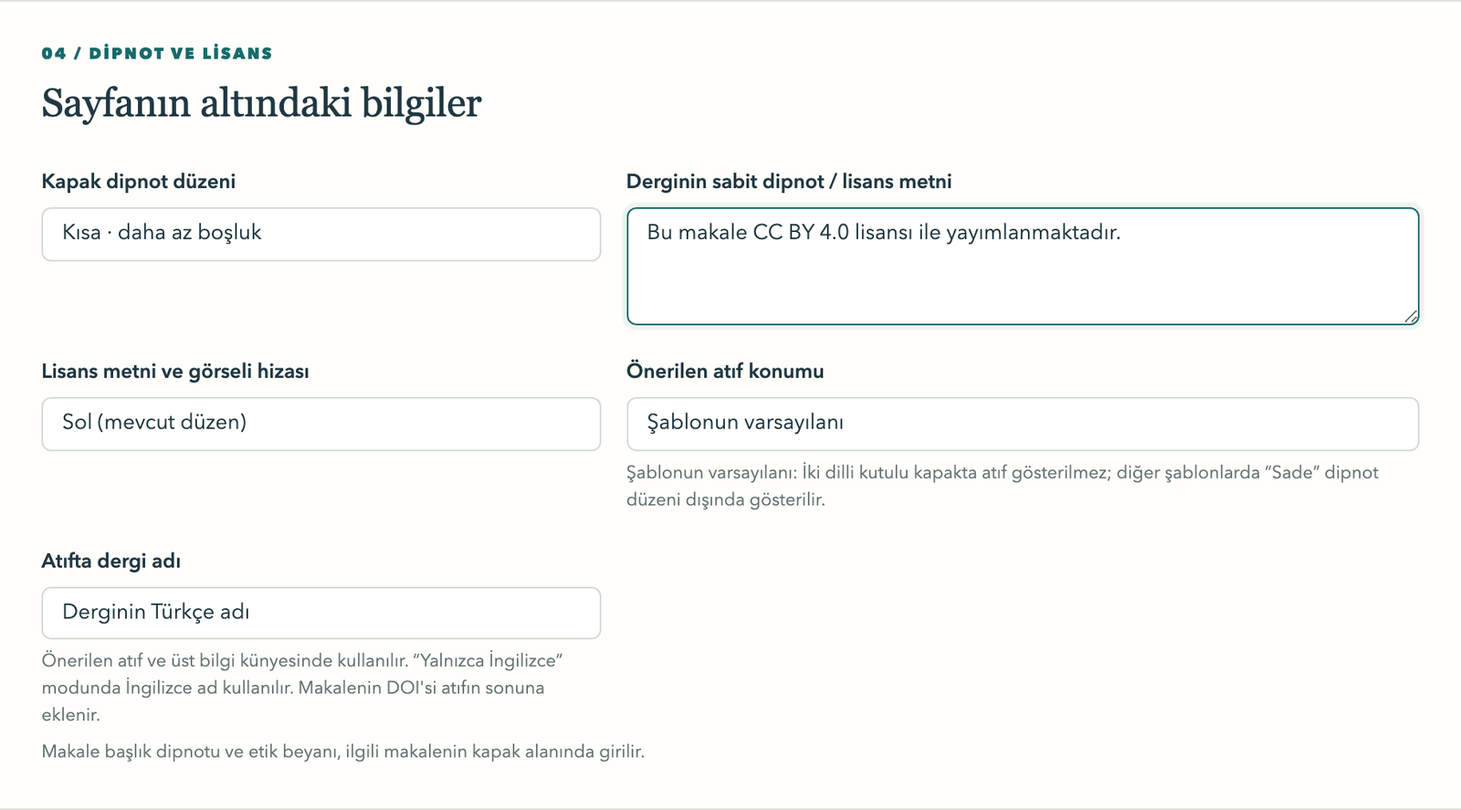
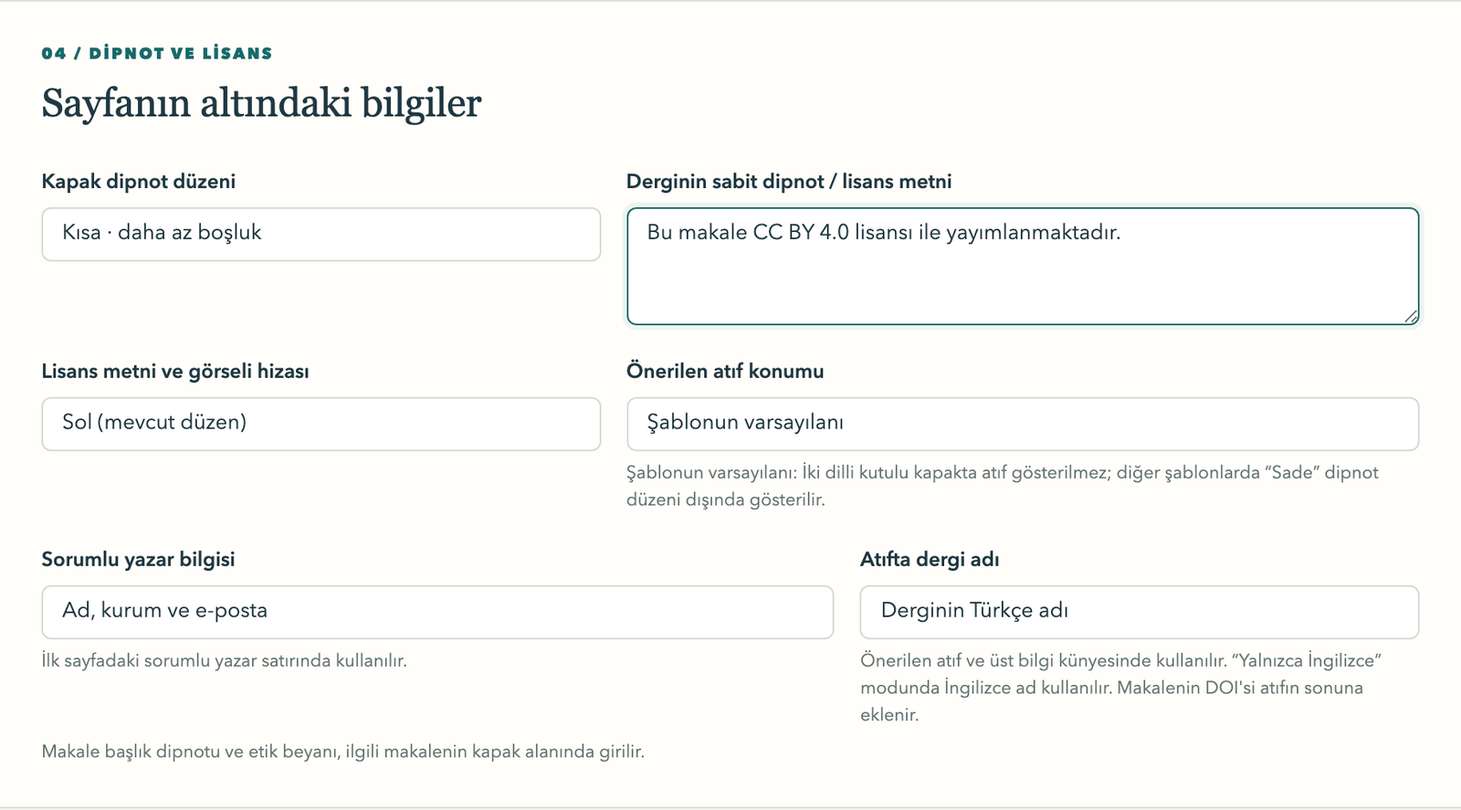
fix: import article DOI, tidy citation, add hyphenation and author options
- Fill the DOI field from a labelled DOI ("DOI: 10..." or a doi.org link)
  in the manuscript's front matter or first-page header/footer; body and
  reference DOIs are ignored and a typed DOI is kept. Warn in the output
  panel when the suggested citation has no DOI.
- Suggested citation follows APA 7 punctuation (comma after the journal)
  and drops the x/xxx placeholders of empty volume/issue fields.
- New "Satır sonunda kelime bölme" setting turns off LaTeX hyphenation.
- New "Sorumlu yazar bilgisi" setting limits the corresponding author
  line to name and e-mail.
- Bump to 2.4.3 with changelog, README, guide and screenshot updates.

diff --git a/templates/index.html b/templates/index.html
@@ -320,13 +320,13 @@ textarea { resize:vertical; }
    <div class="col-md-3"><label for="js-body-size">Gövde puntosu</label><select id="js-body-size" class="form-select"><option value="10">10 punto</option><option value="11">11 punto</option><option value="12">12 punto</option></select></div><div class="col-md-3"><label for="js-accent-color">Vurgu rengi</label><input id="js-accent-color" type="color" class="form-control form-control-color" value="#176B6A"></div>
    <div class="col-md-6"><label for="js-header-layout">Kapak üst yerleşimi</label><select id="js-header-layout" class="form-select"><option value="classic">Klasik · logo ve çift dil</option><option value="contemporary">Çağdaş · vurgu bandı</option><option value="centered">Ortalanmış · simetrik başlık</option><option value="minimal">Sade · yalın üst bilgi</option><option value="scholarly">Sosyal bilimler · ayrı İngilizce özet</option><option value="bilingual_panel">İki dilli kutulu kapak · çift özet paneli</option></select></div>
    <div class="col-md-6"><label for="js-first-page-fit">Varsayılan ilk sayfa yerleşimi</label><select id="js-first-page-fit" class="form-select"><option value="auto">Otomatik sığdır</option><option value="compact">Sıkı yerleşim</option><option value="dense">Çok sıkı yerleşim</option></select><small>Yeni makalelere uygulanır; her makalede ayrıca değiştirilebilir.</small></div>
-   <div class="col-md-4"><label for="js-logo-height">Logo yüksekliği · cm</label><input id="js-logo-height" type="number" min="0.5" max="3.5" step="0.1" class="form-control" value="2.3"></div><div class="col-md-4"><label for="js-corr-marker">Sorumlu yazar işareti</label><select id="js-corr-marker" class="form-select"><option value="*">* Yıldız</option><option value="†">† Hançer</option><option value="‡">‡ Çift hançer</option><option value="§">§ Paragraf</option><option value="¶">¶ Pilcrow</option><option value="#"># Kare</option><option value="★">★ Dolu yıldız</option><option value="✉">✉ Mektup</option></select></div><div class="col-md-4"><label for="js-doi-position">DOI konumu</label><select id="js-doi-position" class="form-select"><option value="bottom">İlk sayfanın altında</option><option value="top">Üst bilgi alanında</option></select></div>
+   <div class="col-md-4"><label for="js-logo-height">Logo yüksekliği · cm</label><input id="js-logo-height" type="number" min="0.5" max="3.5" step="0.1" class="form-control" value="2.3"></div><div class="col-md-4"><label for="js-corr-marker">Sorumlu yazar işareti</label><select id="js-corr-marker" class="form-select"><option value="*">* Yıldız</option><option value="†">† Hançer</option><option value="‡">‡ Çift hançer</option><option value="§">§ Paragraf</option><option value="¶">¶ Pilcrow</option><option value="#"># Kare</option><option value="★">★ Dolu yıldız</option><option value="✉">✉ Mektup</option></select></div><div class="col-md-4"><label for="js-doi-position">DOI konumu</label><select id="js-doi-position" class="form-select"><option value="bottom">İlk sayfanın altında</option><option value="top">Üst bilgi alanında</option></select></div><div class="col-md-6"><label for="js-hyphenation">Satır sonunda kelime bölme</label><select id="js-hyphenation" class="form-select" data-journal-setting="hyphenation" aria-describedby="hyphenation-help"><option value="on">Açık · sığmayan kelimeyi tireyle böl</option><option value="off">Kapalı · kelimeyi bölmeden alt satıra geçir</option></select><small id="hyphenation-help">PDF (LaTeX) çıktısında geçerlidir; Word kelimeleri kendiliğinden bölmez.</small></div>
    <div class="col-md-6"><label for="js-english-abstract-heading">İngilizce özet başlığı</label><input id="js-english-abstract-heading" data-journal-setting="english_abstract_heading" class="form-control" maxlength="80" placeholder="Abstract veya Extended Summary"></div>
    <div class="col-12" id="scholarly-layout-note" hidden><small>Sosyal bilimler düzeni: 2,5 cm yan kenar boşluğu, girintili paragraflar ve 1,5 satır aralığı. İki dilde özet varsa İngilizce başlık ve özet ayrı sayfadan başlar; uzun özet sonraki sayfalara devam eder. İngilizce özet alanına kendi genişletilmiş özetinizi girin. Sorumlu yazar ve tarih bilgileri kapak altında yer alır.</small></div>
    <div class="col-12" id="bilingual-panel-layout-note" hidden><small>İki dilli kutulu kapak: Logo ve dergi adı üst künyede, Türkçe ve İngilizce özetler gri panellerde gösterilir. Tek/çift sayfa üst bilgileri ve alttaki sayfa numarası düzenlenebilir. Dergi adı, URL, ISSN ve logo hesabınızın mevcut alanlarından alınır.</small></div>
    <div class="col-12"><label class="check-label"><input type="checkbox" id="js-english-only" class="form-check-input"> Yalnızca İngilizce kapak ve etiketler kullan</label></div>
   </div></div>
-  <div class="settings-section"><span class="eyebrow">04 / DİPNOT VE LİSANS</span><h2>Sayfanın altındaki bilgiler</h2><div class="row g-3"><div class="col-md-5"><label for="js-footer-layout">Kapak dipnot düzeni</label><select id="js-footer-layout" class="form-select"><option value="full">Ayrıntılı · tüm bilgiler</option><option value="compact">Kısa · daha az boşluk</option><option value="minimal">Sade · temel bilgiler</option></select></div><div class="col-md-7"><label for="js-footer-text">Derginin sabit dipnot / lisans metni</label><textarea id="js-footer-text" class="form-control" rows="3" maxlength="2000" placeholder="Derginizin yayın ve lisans bilgisi…"></textarea></div><div class="col-md-5"><label for="js-footer-text-align">Lisans metni ve görseli hizası</label><select id="js-footer-text-align" class="form-select" data-journal-setting="footer_text_align"><option value="left">Sol (mevcut düzen)</option><option value="center">Orta</option><option value="right">Sağ</option></select></div><div class="col-md-7"><label for="js-citation-position">Önerilen atıf konumu</label><select id="js-citation-position" class="form-select" data-journal-setting="citation_position" aria-describedby="citation-position-help"><option value="auto">Şablonun varsayılanı</option><option value="below_authors">Yazar bilgilerinin altında, özetlerden önce</option><option value="footer">İlk sayfanın altındaki dipnotta</option><option value="none">Gösterme</option></select><small id="citation-position-help">Şablonun varsayılanı: İki dilli kutulu kapakta atıf gösterilmez; diğer şablonlarda “Sade” dipnot düzeni dışında gösterilir.</small></div><div class="col-md-5"><label for="js-citation-journal-name">Atıfta dergi adı</label><select id="js-citation-journal-name" class="form-select" data-journal-setting="citation_journal_name" aria-describedby="citation-journal-help"><option value="primary">Derginin Türkçe adı</option><option value="english">Derginin İngilizce adı</option></select><small id="citation-journal-help">Önerilen atıf ve üst bilgi künyesinde kullanılır. “Yalnızca İngilizce” modunda İngilizce ad kullanılır. Makalenin DOI'si atıfın sonuna eklenir.</small></div></div><small>Makale başlık dipnotu ve etik beyanı, ilgili makalenin kapak alanında girilir.</small></div>
+  <div class="settings-section"><span class="eyebrow">04 / DİPNOT VE LİSANS</span><h2>Sayfanın altındaki bilgiler</h2><div class="row g-3"><div class="col-md-5"><label for="js-footer-layout">Kapak dipnot düzeni</label><select id="js-footer-layout" class="form-select"><option value="full">Ayrıntılı · tüm bilgiler</option><option value="compact">Kısa · daha az boşluk</option><option value="minimal">Sade · temel bilgiler</option></select></div><div class="col-md-7"><label for="js-footer-text">Derginin sabit dipnot / lisans metni</label><textarea id="js-footer-text" class="form-control" rows="3" maxlength="2000" placeholder="Derginizin yayın ve lisans bilgisi…"></textarea></div><div class="col-md-5"><label for="js-footer-text-align">Lisans metni ve görseli hizası</label><select id="js-footer-text-align" class="form-select" data-journal-setting="footer_text_align"><option value="left">Sol (mevcut düzen)</option><option value="center">Orta</option><option value="right">Sağ</option></select></div><div class="col-md-7"><label for="js-citation-position">Önerilen atıf konumu</label><select id="js-citation-position" class="form-select" data-journal-setting="citation_position" aria-describedby="citation-position-help"><option value="auto">Şablonun varsayılanı</option><option value="below_authors">Yazar bilgilerinin altında, özetlerden önce</option><option value="footer">İlk sayfanın altındaki dipnotta</option><option value="none">Gösterme</option></select><small id="citation-position-help">Şablonun varsayılanı: İki dilli kutulu kapakta atıf gösterilmez; diğer şablonlarda “Sade” dipnot düzeni dışında gösterilir.</small></div><div class="col-md-7"><label for="js-corresponding-detail">Sorumlu yazar bilgisi</label><select id="js-corresponding-detail" class="form-select" data-journal-setting="corresponding_detail"><option value="full">Ad, kurum ve e-posta</option><option value="name_email">Yalnızca ad ve e-posta</option></select><small>İlk sayfadaki sorumlu yazar satırında kullanılır.</small></div><div class="col-md-5"><label for="js-citation-journal-name">Atıfta dergi adı</label><select id="js-citation-journal-name" class="form-select" data-journal-setting="citation_journal_name" aria-describedby="citation-journal-help"><option value="primary">Derginin Türkçe adı</option><option value="english">Derginin İngilizce adı</option></select><small id="citation-journal-help">Önerilen atıf ve üst bilgi künyesinde kullanılır. “Yalnızca İngilizce” modunda İngilizce ad kullanılır. Makalenin DOI'si atıfın sonuna eklenir.</small></div></div><small>Makale başlık dipnotu ve etik beyanı, ilgili makalenin kapak alanında girilir.</small></div>
 
 <div class="settings-section running-settings"><span class="eyebrow">05 / SAYFA ÜST VE ALT BİLGİLERİ</span><h2>Her sayfaya ait ayrıntılar</h2>
 <p>Bu ayarlar Word ve LaTeX çıktılarında kullanılır. Tek/çift seçimi, makalenin başlangıç sayfa numarasına göre uygulanır. Kapaktaki yazar, etik beyan ve lisans bilgileri ayrıca korunur.</p>
@@ -699,6 +699,8 @@ async function applyDocxImport(data, importKey, filename, notify = true) {
   document.getElementById('c-tr-title').value = cover.tr_title || '';
   document.getElementById('c-en-title').value = cover.en_title || '';
   if (cover.article_type) document.getElementById('c-article-type').value = cover.article_type;
+  // A DOI typed by the editor wins over one found in the manuscript.
+  if (cover.doi && !document.getElementById('c-doi').value.trim()) document.getElementById('c-doi').value = cover.doi;
 
   const abstract = data.abstract || {};
   document.getElementById('a-tr-abs').value = abstract.tr_abs || '';
@@ -2043,7 +2045,8 @@ async function doGenerate(kind = 'zip') {
     document.getElementById('result-title').textContent = word ? 'Tamamlandı — Word belgesi hazır' : 'Tamamlandı — ZIP hazır';
     document.getElementById('docx-download-status').textContent = '';
     const report = res.citations;
-    document.getElementById('citation-result').textContent = report?.enabled ? `${report.linked_in_body} metin içi atıf kaynakçaya bağlandı. ${report.ambiguous_references} belirsiz, ${report.unrecognized_references} tanınmayan kaynak kaydı. Bağlantısız atıfları son kontrolde gözden geçirin.` : 'Atıf bağlantıları kapalı.';
+    const doiNote = document.getElementById('c-doi').value.trim() ? '' : ' Makalenin DOI\'si girilmediği için önerilen atıfta DOI yer almıyor; Kapak Sayfası Bilgileri → DOI alanını doldurun.';
+    document.getElementById('citation-result').textContent = (report?.enabled ? `${report.linked_in_body} metin içi atıf kaynakçaya bağlandı. ${report.ambiguous_references} belirsiz, ${report.unrecognized_references} tanınmayan kaynak kaydı. Bağlantısız atıfları son kontrolde gözden geçirin.` : 'Atıf bağlantıları kapalı.') + doiNote;
     document.getElementById('zip-download-status').textContent = '';
     document.getElementById('result-panel').style.display = 'block';
     document.getElementById('result-panel').scrollIntoView({ behavior:'smooth' });

diff --git a/static/workspace.js b/static/workspace.js
@@ -71,7 +71,8 @@ window.journalWorkspace = (() => {
     const values = {...window.runningDefaults, font_family:next.font_family || next.font || 'Palatino Linotype',body_size:10,accent_color:'#176B6A',
       logo_height_cm:2.3,corresponding_marker:'*',doi_position:'bottom',header_layout:next.template_id || 'classic',
       footer_layout:'full',first_page_fit:'auto',english_abstract_heading:'Abstract',
-      footer_text_align:'left',citation_position:'auto',citation_journal_name:'primary',...next};
+      footer_text_align:'left',citation_position:'auto',citation_journal_name:'primary',
+      hyphenation:'on',corresponding_detail:'full',...next};
     const fontAliases = {texgyrepagella:'Palatino Linotype',texgyretermes:'Times New Roman',tgschola:'Century',texgyrebonum:'Century',latinmodern:'Latin Modern',carlito:'Calibri',texgyreheros:'Sans Serif'};
     values.font_family = fontAliases[values.font_family] || values.font_family;
     for (const [key,id] of Object.entries(fields)) byId(id).value = values[key] ?? '';

diff --git a/formatter.py b/formatter.py
@@ -1045,6 +1045,33 @@ def _route_titles_by_language(first: str, second: str) -> tuple[str, str]:
     return first, second
 
 
+_DOI_RE = re.compile(r'(?:\bdoi\s*[:：]?\s*|https?://(?:dx\.)?doi\.org/)(10\.\d{4,9}/[^\s"<>]+)', re.IGNORECASE)
+
+
+def _front_matter_doi(document: Document, blocks: list[dict], paragraph_indices: list[int]) -> str:
+    """The article's own DOI from its front matter or page header/footer.
+
+    Only labelled DOIs ("DOI: 10…" or a doi.org link) before the first body
+    heading count, so DOIs of cited works in the text or references are ignored.
+    """
+    texts = []
+    for index in paragraph_indices:
+        text = blocks[index]['text']
+        key = text.lower().strip().rstrip(':').strip()
+        if _is_heading(blocks[index]['paragraph']) or key in SECTION_MAP or _numbered_section_title(text):
+            break
+        texts.append(text)
+    if document.sections:
+        section = document.sections[0]
+        for part in (section.first_page_header, section.header, section.first_page_footer, section.footer):
+            texts.extend(_para_text(paragraph) for paragraph in part.paragraphs)
+    for text in texts:
+        match = _DOI_RE.search(text)
+        if match:
+            return match.group(1).rstrip('.,;:)]')
+    return ''
+
+
 def extract_form_data_from_docx(file_bytes: bytes) -> tuple[dict, list[dict]]:
     """Extract a reviewable form payload and body images from a DOCX file."""
     document = Document(io.BytesIO(file_bytes))
@@ -1368,7 +1395,12 @@ def extract_form_data_from_docx(file_bytes: bytes) -> tuple[dict, list[dict]]:
         result['warnings'].append('Word çizimleri, grafikler veya metin kutuları bulundu. Görsel olmayan Word şekilleri otomatik resme dönüştürülemez; şekilleri Word’den PNG/JPG olarak kaydedip şekil alanından ekleyin ve konumlarını kontrol edin.')
     if not result['sections']:
         result['warnings'].append('Word dosyasında güvenilir biçimde belirlenebilen makale bölümü bulunamadı.')
-    result['warnings'].append('Yazar, tarih, DOI ve sayı bilgileri Word dosyasından güvenilir biçimde çıkarılamadığı için mevcut alanlar korundu.')
+    doi = _front_matter_doi(document, blocks, paragraph_indices)
+    if doi:
+        result['cover']['doi'] = doi
+        result['warnings'].append(f'Makalenin DOI\'si Word dosyasından alındı ({doi}); Kapak Sayfası Bilgileri → DOI alanında kontrol edin.')
+    result['warnings'].append('Yazar, tarih ve sayı bilgileri' + ('' if doi else ' ile DOI')
+                              + ' Word dosyasından güvenilir biçimde çıkarılamadığı için mevcut alanlar korundu.')
     result['stats'] = {
         'sections': len(result['sections']),
         'tables': table_number,
@@ -1473,13 +1505,13 @@ def _format_affiliations(authors: list, english_only: bool = False) -> str:
     return (r'\\' + '\n  ').join(lines)
 
 
-def _format_corresponding(authors: list, english_only: bool = False) -> str:
+def _format_corresponding(authors: list, english_only: bool = False, include_affiliation: bool = True) -> str:
     email_label = 'E-mail: ' if english_only else 'E-posta: '
     for a in authors:
         if a.get('corresponding'):
             name  = escape(a.get('name', ''))
             email = a.get('email', '')
-            aff   = escape(a.get('affiliation', ''))
+            aff   = escape(a.get('affiliation', '')) if include_affiliation else ''
             ep    = r'. ' + email_label + r'\href{' + _url_target('mailto:' + email) + r'}{' + escape(email) + r'}' if email else ''
             return name + (', ' + aff if aff else '') + ep
     if authors:
@@ -2592,19 +2624,20 @@ def generate_latex_from_form(data: dict, figure_file_bytes: dict,
     # ── Author blocks ──
     author_block = _format_author_block(authors, corr_marker) if authors else ''
     affiliations = _format_affiliations(authors, english_only) if authors else ''
-    corresponding = _format_corresponding(authors, english_only) if authors else ''
+    corresponding = _format_corresponding(authors, english_only, js['corresponding_detail'] == 'full') if authors else ''
 
     # ── APA citation ──
     citation_title = en_title if english_only else tr_title
     # The journal's own (Turkish) title unless the journal chose its English title.
     citation_journal = ((jname_en or jname_tr) if english_only or js['citation_journal_name'] == 'english'
                         else (jname_tr or jname_en))
+    # APA 7: Journal, Volume(Issue), pages. https://doi.org/... (placeholders are left out)
+    volume_raw, issue_raw, start_raw = (page_value(cov.get(key)) for key in ('volume', 'issue', 'start_page'))
+    issue_part = (r'\textit{' + escape(volume_raw) + '}' if volume_raw else '') + ('(' + escape(issue_raw) + ')' if issue_raw else '')
+    source = ', '.join(part for part in (r'\textit{' + escape(citation_journal) + '}', issue_part,
+                                         escape(start_raw) + '--' + end_page if start_raw else '') if part)
     apa_citation = (
-        author_short + r'\ (' + year + r'). ' + citation_title +
-        r'. \textit{' + escape(citation_journal) + r'}, ' +
-        r'\textit{' + volume + r'}(' + issue + r'), ' +
-        start_page + r'--' + end_page + r'.'
-        # APA 7 ends a journal article reference with its DOI.
+        author_short + r'\ (' + year + r'). ' + citation_title + '. ' + source + '.'
         + (r' \href{https://doi.org/\JGTTRDOI}{https://doi.org/\JGTTRDOI}' if doi else '')
     )
 
@@ -2815,8 +2848,9 @@ def generate_latex_from_form(data: dict, figure_file_bytes: dict,
 % ── Satır kırma / Line breaking ──
 % Uzun kelimeler ve URL'lerin sayfa kenarına taşmasını önler
 \setlength{\emergencystretch}{3em}
-\tolerance=800
-\hyphenpenalty=50
+\tolerance=""" + ('800' if js['hyphenation'] == 'on' else '2000') + r"""
+% Kelime bölme / Hyphenation: """ + js['hyphenation'] + r""" (an explicit hyphen in a word may still end a line)
+\hyphenpenalty=""" + ('50' if js['hyphenation'] == 'on' else '10000') + r"""
 \exhyphenpenalty=50
 
 % ── Section headings ──

diff --git a/tests/test_editor_feedback_243.py b/tests/test_editor_feedback_243.py
@@ -1,0 +1,97 @@
+"""Editor feedback for 2.4.3: imported DOI, citation punctuation, hyphenation, corresponding author."""
+import io
+import re
+import unittest
+
+from docx import Document
+
+from docx_export import generate_docx_from_form
+from formatter import extract_form_data_from_docx, generate_latex_from_form
+from journal_templates import TEMPLATES, normalize_settings
+from page_furniture import citation_text
+from test_formatter_templates import sample_article
+
+SCHOLARLY = next(item['settings'] for item in TEMPLATES if item['id'] == 'scholarly')
+
+
+def imported(*front, references=(), header=''):
+    document = Document()
+    if header:
+        document.sections[0].header.paragraphs[0].text = header
+    document.add_paragraph('Kırsal Turizmde Dijital Tanıtım', style='Title')
+    for text in front:
+        document.add_paragraph(text)
+    document.add_paragraph('Öz')
+    document.add_paragraph('Bu çalışma kısa bir örnek özet içermektedir ve test içindir.')
+    document.add_heading('Giriş', level=1)
+    document.add_paragraph('Giriş metni (Yılmaz, 2020) burada yer alır; bkz. doi: 10.9999/body.citation.')
+    document.add_heading('Kaynakça', level=1)
+    for reference in references:
+        document.add_paragraph(reference)
+    stream = io.BytesIO(); document.save(stream)
+    return extract_form_data_from_docx(stream.getvalue())[0]
+
+
+class ImportedDoiTests(unittest.TestCase):
+    def test_labelled_front_matter_doi_is_imported(self):
+        data = imported('Araştırma Makalesi', 'DOI: 10.1234/osad.2026.012')
+        self.assertEqual(data['cover']['doi'], '10.1234/osad.2026.012')
+        self.assertTrue(any('DOI' in warning and '10.1234/osad.2026.012' in warning for warning in data['warnings']))
+
+    def test_doi_link_in_page_header_is_imported(self):
+        data = imported(header='Örnek Dergi · https://doi.org/10.5555/ornek.45.')
+        self.assertEqual(data['cover']['doi'], '10.5555/ornek.45')
+
+    def test_body_and_reference_dois_are_ignored(self):
+        data = imported(references=['Yılmaz, A. (2020). Başlık. Dergi, 1(1), 1–2. https://doi.org/10.1111/ref.1'])
+        self.assertNotIn('doi', data['cover'])
+        self.assertTrue(any('ile DOI' in warning for warning in data['warnings']))
+
+
+class CitationPunctuationTests(unittest.TestCase):
+    def test_apa_comma_after_journal_and_no_placeholders(self):
+        settings = normalize_settings({'journal_name_tr': 'Örnek Dergi'})
+        data = sample_article()
+        self.assertIn('Örnek Dergi, 4(2), 89–104. https://doi.org/', citation_text(data, settings))
+        data['cover'].update(volume='x', issue='x')
+        text = citation_text(data, settings)
+        self.assertIn('Örnek Dergi, 89–104.', text)
+        self.assertNotIn('(x)', text)
+        tex = generate_latex_from_form(data, {}, {'journal_name_tr': 'Örnek Dergi'})
+        citation = tex[tex.index(r'\newcommand{\JGTTRapacitation}'):].split('\n', 1)[0]
+        self.assertIn(r'\textit{Örnek Dergi}, 89--104.', citation)
+        self.assertNotIn('(x)', citation)
+
+
+class HyphenationTests(unittest.TestCase):
+    def test_hyphenation_stays_on_by_default_and_can_be_turned_off(self):
+        self.assertIn('\\hyphenpenalty=50\n', generate_latex_from_form(sample_article(), {}, {}))
+        tex = generate_latex_from_form(sample_article(), {}, {'hyphenation': 'off'})
+        self.assertIn('\\hyphenpenalty=10000\n', tex)
+        self.assertIn('\\tolerance=2000\n', tex)
+        with self.assertRaises(ValueError):
+            normalize_settings({'hyphenation': 'auto'})
+
+
+class CorrespondingAuthorTests(unittest.TestCase):
+    def info(self, settings):
+        tex = generate_latex_from_form(sample_article(), {}, settings)
+        return re.search(r'\\newcommand\{\\JGTTRcorrespondinginfo\}\{(.*)\}\n', tex).group(1)
+
+    def test_full_details_by_default(self):
+        self.assertIn('Örnek Üniversitesi', self.info({}))
+
+    def test_name_and_email_only(self):
+        info = self.info({'corresponding_detail': 'name_email'})
+        self.assertTrue(info.startswith('Deniz Örnek. E-posta:'))
+        self.assertIn('deniz@example.org', info)
+        self.assertNotIn('Örnek Üniversitesi', info)
+        data = sample_article(); data['authors'][0]['orcid'] = '0000-0002-1825-0097'
+        footer = Document(io.BytesIO(generate_docx_from_form(data, {}, {**SCHOLARLY, 'corresponding_detail': 'name_email'})))
+        line = next(p.text for p in footer.sections[0].first_page_footer.paragraphs if 'Corresponding' in p.text)
+        self.assertIn('deniz@example.org', line)
+        self.assertNotIn('orcid', line)
+
+
+if __name__ == '__main__':
+    unittest.main()

diff --git a/page_furniture.py b/page_furniture.py
@@ -50,8 +50,9 @@ LAST_PAGE = '\x1fson_sayfa\x1f'
 
 
 def page_value(value) -> str:
+    """Form value without the editor's x/xxx placeholders (pages, volume, issue)."""
     value = str(value or '').strip()
-    return '' if value.lower() in {'', 'xxx'} else value
+    return '' if value.lower() in {'', 'x', 'xx', 'xxx'} else value
 
 
 def revision_dates(cov: dict) -> list[str]:
@@ -89,7 +90,7 @@ def article_values(data: dict, settings: dict) -> dict:
     return {'dergi': journal or '', 'dergi_en': settings.get('journal_name_en', ''), 'baslik': title,
             'kisa_baslik': short_title or (title if len(title) <= 100 else title[:97].rstrip() + '…'),
             'yazarlar': short_authors(data),
-            'yil': cov.get('year', ''), 'cilt': cov.get('volume', ''), 'sayi': cov.get('issue', ''),
+            'yil': cov.get('year', ''), 'cilt': page_value(cov.get('volume')), 'sayi': page_value(cov.get('issue')),
             'sayfa_araligi': page_range(cov),
             'doi': cov.get('doi', ''), 'issn': settings.get('issn_online') or settings.get('issn_print', '')}
 
@@ -109,13 +110,11 @@ def citation_journal(settings: dict) -> str:
 
 def citation_text(data: dict, settings: dict, include_doi: bool = True) -> str:
     values = article_values(data, settings)
-    parts = [values['yazarlar'], '(' + values['yil'] + ').' if values['yil'] else '', values['baslik'] + '.' if values['baslik'] else '',
-             citation_journal(settings)]
+    # APA 7: Journal, Volume(Issue), pages. https://doi.org/...
     issue = values['cilt'] + ('(' + values['sayi'] + ')' if values['sayi'] else '')
-    if issue:
-        parts.append(issue + ',')
-    if values['sayfa_araligi']:
-        parts.append(values['sayfa_araligi'] + '.')
+    source = ', '.join(part for part in (citation_journal(settings), issue, values['sayfa_araligi']) if part)
+    parts = [values['yazarlar'], '(' + values['yil'] + ').' if values['yil'] else '', values['baslik'] + '.' if values['baslik'] else '',
+             source + '.' if source else '']
     doi = doi_value(data.get('cover', {}))
     if include_doi and doi:
         parts.append('https://doi.org/' + doi)

diff --git a/tests/test_citation_sources.py b/tests/test_citation_sources.py
@@ -92,7 +92,7 @@ class SuggestedCitationTests(unittest.TestCase):
     def test_turkish_journal_name_and_doi_by_default(self):
         settings = normalize_settings({**PANEL, **NAMES})
         text = citation_text(sample_article(), settings)
-        self.assertIn('Örnek Sosyal Araştırmalar Dergisi 4(2), 89–104.', text)
+        self.assertIn('Örnek Sosyal Araştırmalar Dergisi, 4(2), 89–104.', text)
         self.assertTrue(text.endswith(' https://doi.org/10.1234/example.2026.4'))
         tex = generate_latex_from_form(sample_article(), {}, {**PANEL, **NAMES})
         citation = tex[tex.index(r'\newcommand{\JGTTRapacitation}'):].split('\n', 1)[0]
@@ -101,7 +101,7 @@ class SuggestedCitationTests(unittest.TestCase):
 
     def test_english_journal_name_can_be_chosen(self):
         settings = normalize_settings({**NAMES, 'citation_journal_name': 'english'})
-        self.assertIn('Journal of Sample Social Research 4(2)', citation_text(sample_article(), settings))
+        self.assertIn('Journal of Sample Social Research, 4(2)', citation_text(sample_article(), settings))
         english_only = normalize_settings({**NAMES, 'english_only': True})
         self.assertIn('Journal of Sample Social Research', citation_text(sample_article(), english_only))
         tex = generate_latex_from_form(sample_article(), {}, {**NAMES, 'citation_journal_name': 'english'})

diff --git a/journal_templates.py b/journal_templates.py
@@ -61,6 +61,7 @@ _DEFAULTS = {
     'english_abstract_heading': 'Abstract',
     # Optional placements; the defaults keep each template's original layout.
     'footer_text_align': 'left', 'citation_position': 'auto', 'citation_journal_name': 'primary',
+    'hyphenation': 'on', 'corresponding_detail': 'full',
 }
 _FONT_ALIASES = {
     'palatino linotype': 'texgyrepagella', 'palatino': 'texgyrepagella',
@@ -102,6 +103,7 @@ def normalize_settings(raw):
         'footer_text_align': {'left', 'center', 'right'},
         'citation_position': {'auto', 'below_authors', 'footer', 'none'},
         'citation_journal_name': {'primary', 'english'},
+        'hyphenation': {'on', 'off'}, 'corresponding_detail': {'full', 'name_email'},
     }.items():
         value = str(result[key]).strip().lower()
         if value not in choices:

diff --git a/docx_export.py b/docx_export.py
@@ -467,7 +467,8 @@ def _scholarly_cover(doc, data, settings, assets):
     contacts = []
     for author in authors:
         if author.get('corresponding'):
-            contacts.append(' · '.join(str(author.get(k, '')).strip() for k in ('name', 'email', 'orcid') if str(author.get(k, '')).strip()))
+            fields = ('name', 'email', 'orcid') if settings['corresponding_detail'] == 'full' else ('name', 'email')
+            contacts.append(' · '.join(str(author.get(k, '')).strip() for k in fields if str(author.get(k, '')).strip()))
     p = None
     if contacts:
         p = _paragraph(footer, size=8, after=0)

diff --git a/app.py b/app.py
@@ -31,7 +31,7 @@ from page_furniture import TOKENS, RUNNING_DEFAULTS
 from docx_export import generate_docx_from_form, DOCX_MIME
 from formatter import generate_latex_from_form, extract_form_data_from_docx, _normalize_table_model
 
-APP_VERSION = '2.4.2'
+APP_VERSION = '2.4.3'
 
 
 def resource_path(relative_path):

diff --git a/README.md b/README.md
@@ -21,6 +21,12 @@ macOS 13 veya üzerinde Mac'inize uygun DMG'yi açıp (Elma menüsü → Bu Mac 
 
 **macOS'ta ilk açılış:** Uygulama Apple noter onayına sahip olmadığından macOS ilk açılışı engeller. macOS 15 ve sonrasında **Sistem Ayarları → Gizlilik ve Güvenlik → Yine de Aç**, macOS 13–14'te uygulamaya **Control+tıklayıp → Aç** yolunu izleyin; bu yalnızca bir kez gerekir. Ayrıntılı adımlar kurulum diskindeki *İlk Açılış – Okuyun* dosyasında ve [kullanım kılavuzunda](docs/KULLANIM_KILAVUZU.md#2-kurulum) yer alır. Uygulama yine açılmazsa hatayı bir uyarıyla bildirir ve ayrıntıları `~/Library/Logs/AI-ditor Plus/aiditor-plus.log` dosyasına yazar.
 
+## 2.4.3 düzeltmesi
+
+- **DOI Word'den alınır ve atıfta görünür:** Makale Word dosyasının baş kısmında veya üst/alt bilgisinde “DOI: 10…” ya da doi.org bağlantısı varsa DOI alanı içe aktarımda doldurulur ve önerilen atıfın sonuna eklenir. DOI girilmemişse çıktı panelinde uyarı gösterilir. Önerilen atıfta dergi adından sonra APA'daki virgül eklendi; boş cilt/sayı alanları atıfta “x” olarak görünmez.
+- **Satır sonunda kelime bölme:** **Dergi tasarımı ve ayarları → Yerleşim ve tipografi** bölümünden kapatılabilir; kelimeler PDF'te tireyle bölünmeden alt satıra geçer.
+- **Sorumlu yazar bilgisi:** **Dipnot ve lisans** bölümünden ilk sayfadaki sorumlu yazar satırı “yalnızca ad ve e-posta” olarak ayarlanabilir.
+
 ## 2.4.2 düzeltmesi
 
 - **Zotero, Mendeley ve EndNote atıfları:** Bu programların Word'e alan veya içerik denetimi olarak eklediği metin içi atıflar içe aktarımda kayboluyordu. Artık metne olduğu gibi aktarılıyor ve Word/PDF çıktısında kaynakçaya bağlanıyor. Eski sürümle aktarılmış makaleler için Word dosyasını yeniden içe aktarın.

diff --git a/CHANGELOG.md b/CHANGELOG.md
@@ -1,5 +1,12 @@
 # Sürüm geçmişi
 
+## 2.4.3 — 2026-11-11
+
+- **DOI içe aktarma:** Word içe aktarma artık makalenin baş kısmında (ilk bölüm başlığından önce) veya ilk sayfa üst/alt bilgisinde “DOI:” etiketiyle ya da doi.org bağlantısıyla yazılmış DOI'yi DOI alanına aktarır. Metin ve kaynakçadaki DOI'ler alınmaz; elle girilmiş DOI korunur. DOI alanı boşsa çıktı panelinde önerilen atıfta DOI olmadığı bildirilir.
+- **Önerilen atıf biçimi:** APA 7'ye uygun olarak dergi adından sonra virgül eklendi (Word). Boş bırakılan cilt/sayı alanlarının “x” yer tutucuları atıfta ve üst bilgi etiketlerinde görünmez (Word ve LaTeX).
+- **Satır sonunda kelime bölme (yeni ayar):** Kapalı seçildiğinde PDF (LaTeX) çıktısında kelimeler tireyle bölünmez. Varsayılan açık; mevcut görünüm değişmez.
+- **Sorumlu yazar bilgisi (yeni ayar):** İlk sayfadaki sorumlu yazar satırı “yalnızca ad ve e-posta” olarak ayarlanabilir; kurum bilgisi (LaTeX) ve ORCID (Sosyal bilimler şablonu, Word) gösterilmez. Varsayılan tüm bilgiler.
+
 ## 2.4.2 — 2026-11-06
 
 - **Zotero/Mendeley/EndNote atıfları:** Word içe aktarma, paragraf metnini python-docx'in `Paragraph.text` özelliğiyle okuduğu için basit alanların (`w:fldSimple`) ve satır içi içerik denetimlerinin (`w:sdt`) içindeki metni atlıyordu. Bu yapılarla eklenen metin içi atıflar içe aktarımda kayboluyor, bu nedenle Word ve LaTeX çıktısında da görünmüyor ve kaynakçaya bağlanmıyordu. Paragraf ve tablo hücresi metni artık alan sonuçlarını, içerik denetimlerini, köprüleri ve izlenen eklemeleri de kapsayacak şekilde okunuyor; silinmiş metin, alan kodları, metin kutuları ve boş içerik denetimlerinin yer tutucuları dışarıda kalıyor.
